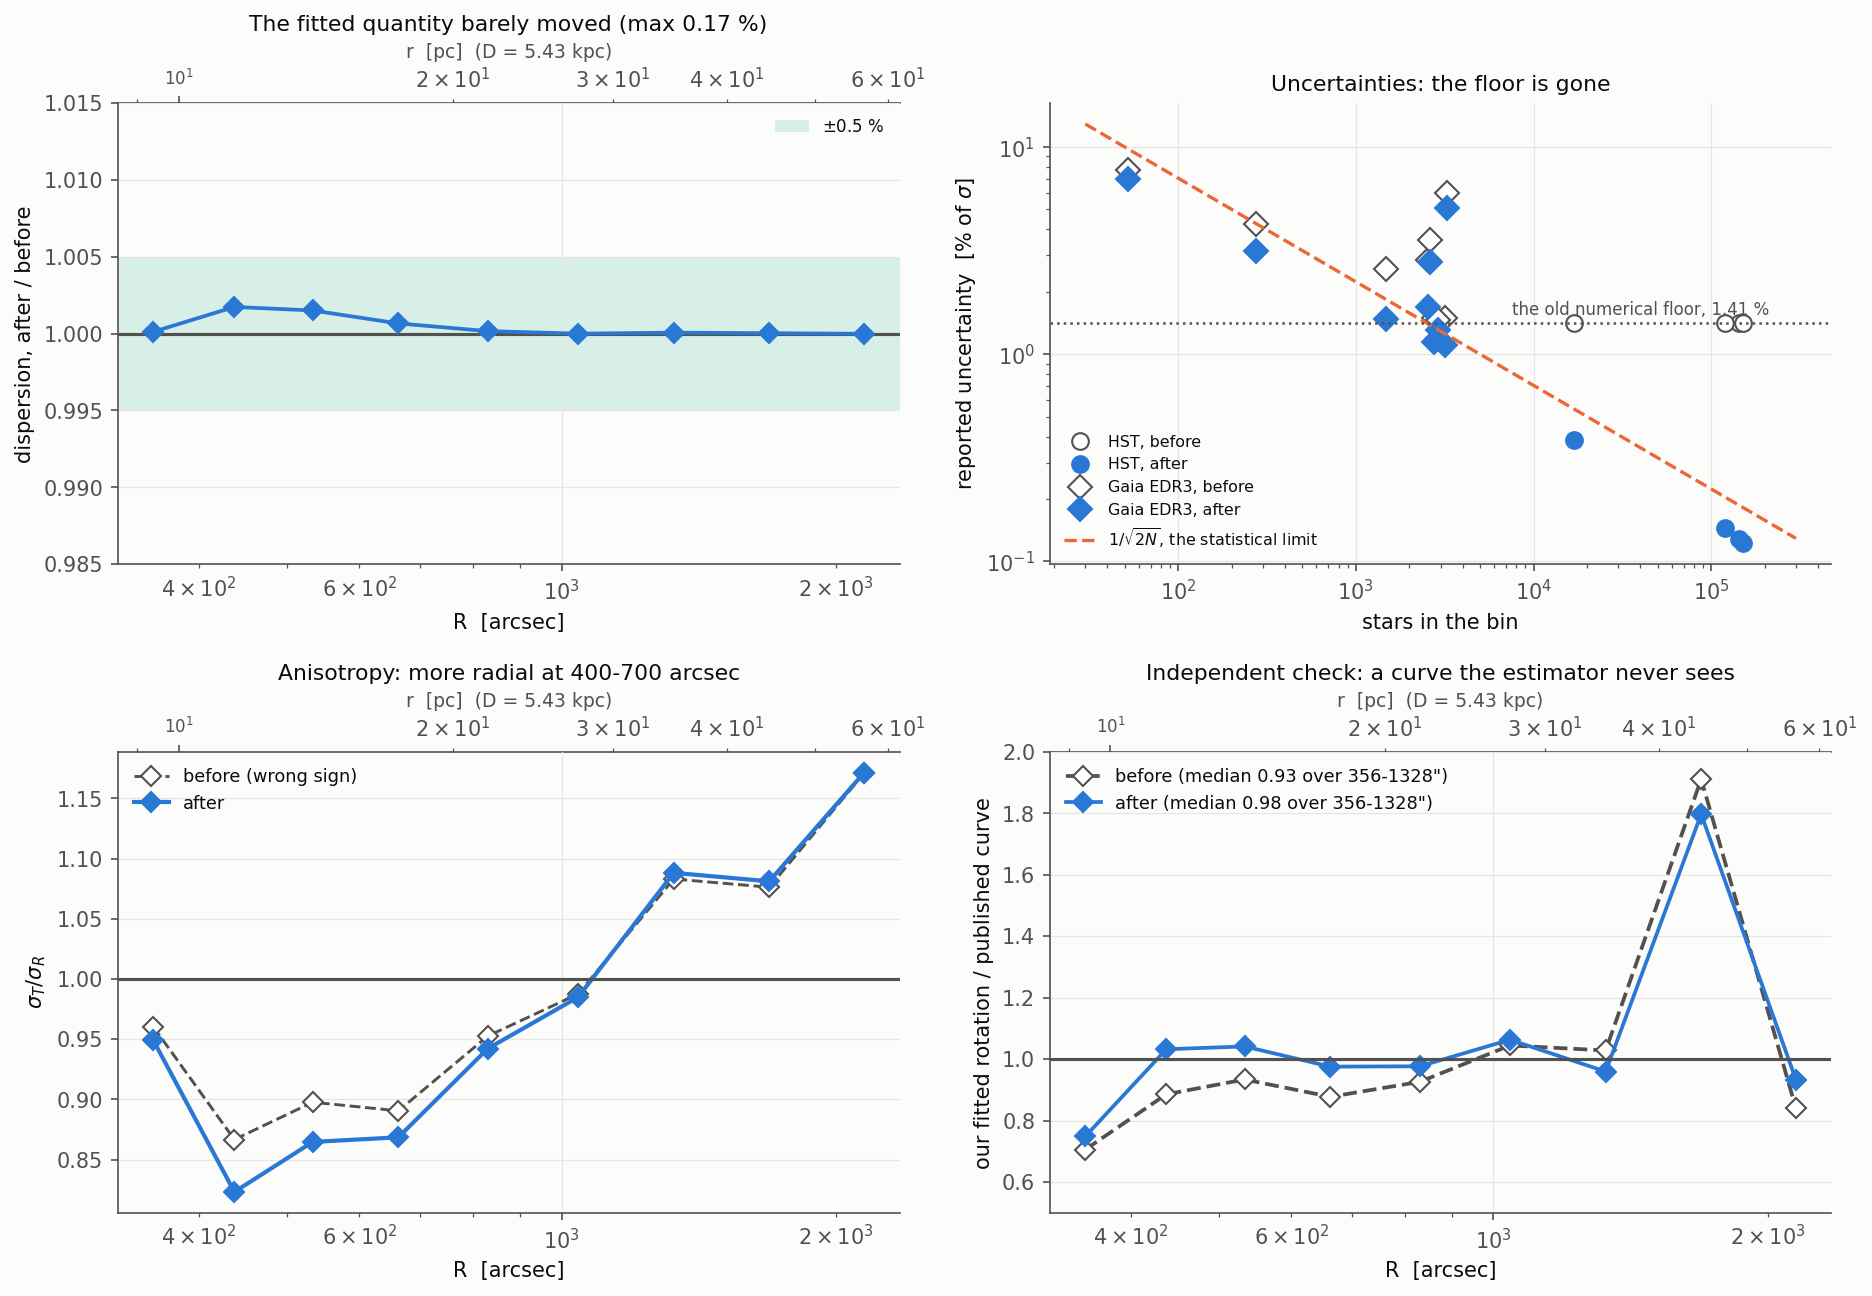
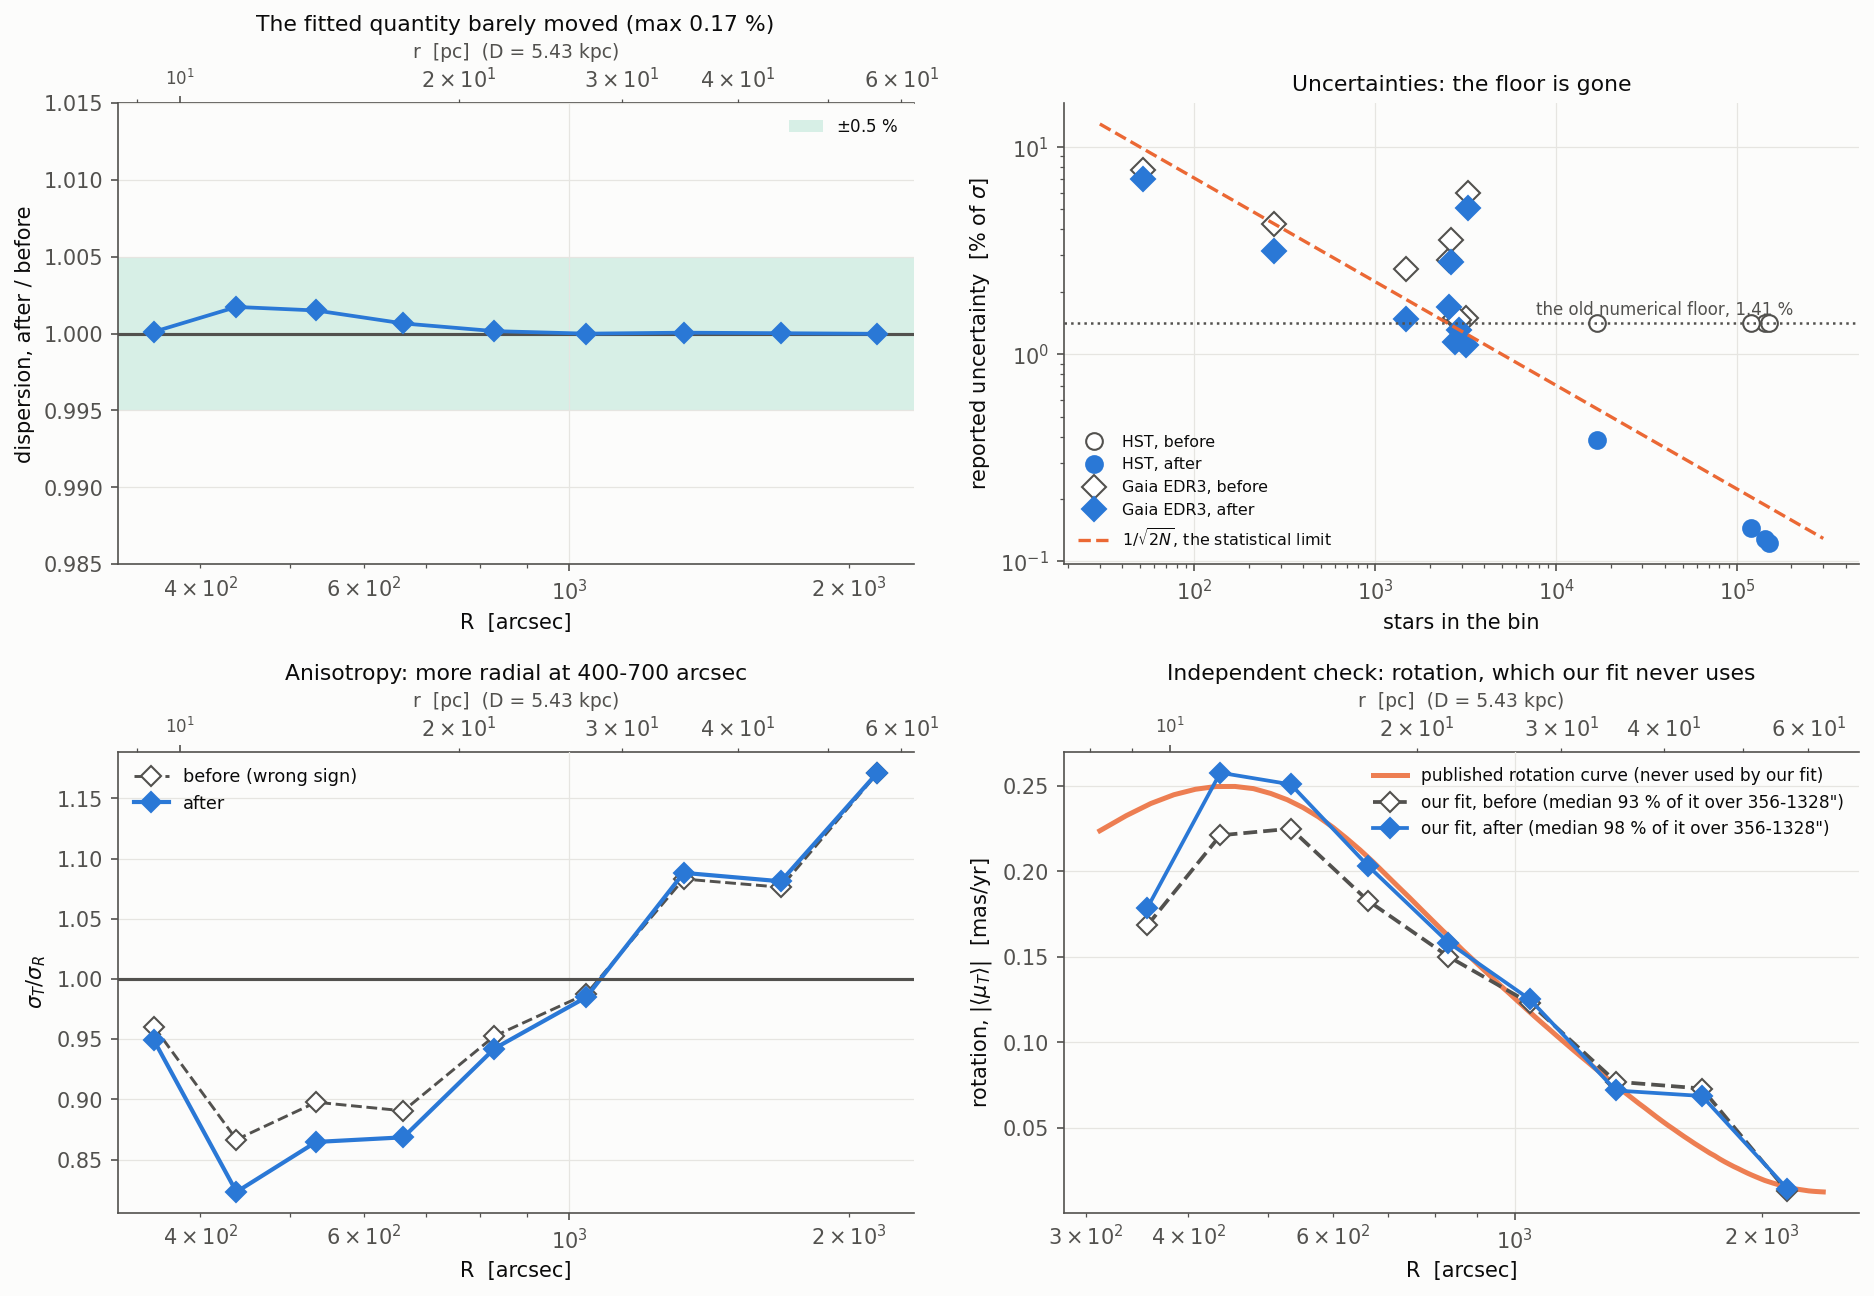
Plot the rotation check as curves rather than a ratio
The ratio form was unreadable: it spiked to 1.8 where the published curve is
0.038 mas/yr, which says nothing. The panel now shows the published rotation
curve and our fitted mean tangential motion before and after the sign fix, so the
before points sitting low and the after points landing on the curve are directly
visible.

diff --git a/src/ocen_dm/plotting/constraints.py b/src/ocen_dm/plotting/constraints.py
@@ -1775,21 +1775,24 @@ def plot_estimator_audit(path: Path | str = "plots/estimator_before_after.png",
     a3.set_title("Anisotropy: more radial at 400-700 arcsec", fontsize=10.5)
     a3.legend(fontsize=8.5, loc="upper left"); add_pc_axis(a3, distance_kpc)
 
-    # (d) rotation against the published curve, the independent check
+    # (d) rotation: our fitted mean tangential motion against the published curve. The
+    # estimator never sees that curve, so this is an independent check of the algebra.
+    keep = (rp > 300) & (rp <= 2400)
+    a4.plot(rp[keep], vp[keep], "-", lw=2.4, color=style.SERIES[1], alpha=0.85,
+            label="published rotation curve (never used by our fit)")
     pub = np.interp(np.asarray(g["r_median"], float), rp, vp)
-    for col, lab, ls, col_ in (("meant_legacy_signs", "before", "--", OLD),
-                               ("meant_fixed", "after", "-", NEW)):
-        y = np.asarray(g[col]) / pub
-        med = np.median(y[:7])
+    for col, lab, ls, col_ in (("meant_legacy_signs", "our fit, before", "--", OLD),
+                               ("meant_fixed", "our fit, after", "-", NEW)):
+        y = np.asarray(g[col])
+        med = np.median((y / pub)[:7])
         a4.plot(g["r_median"], y, "D" + ls, ms=7, lw=1.8, color=col_,
-                mfc="white" if lab == "before" else col_,
-                label="%s (median %.2f over 356-1328\")" % (lab, med))
-    a4.axhline(1.0, color=style.INK_SECONDARY, lw=1.5)
-    a4.set_xscale("log"); a4.set_ylim(0.5, 2.0)
+                mfc="white" if "before" in lab else col_,
+                label="%s (median %.0f %% of it over 356-1328\")" % (lab, 100 * med))
+    a4.set_xscale("log")
     a4.set_xlabel("R  [arcsec]")
-    a4.set_ylabel("our fitted rotation / published curve")
-    a4.set_title("Independent check: a curve the estimator never sees", fontsize=10.5)
-    a4.legend(fontsize=8.5, loc="upper left"); add_pc_axis(a4, distance_kpc)
+    a4.set_ylabel("rotation, $|\\langle\\mu_T\\rangle|$  [mas/yr]")
+    a4.set_title("Independent check: rotation, which our fit never uses", fontsize=10.5)
+    a4.legend(fontsize=8.2, loc="upper right"); add_pc_axis(a4, distance_kpc)
 
     fig.tight_layout()
     path = Path(path); path.parent.mkdir(parents=True, exist_ok=True)
